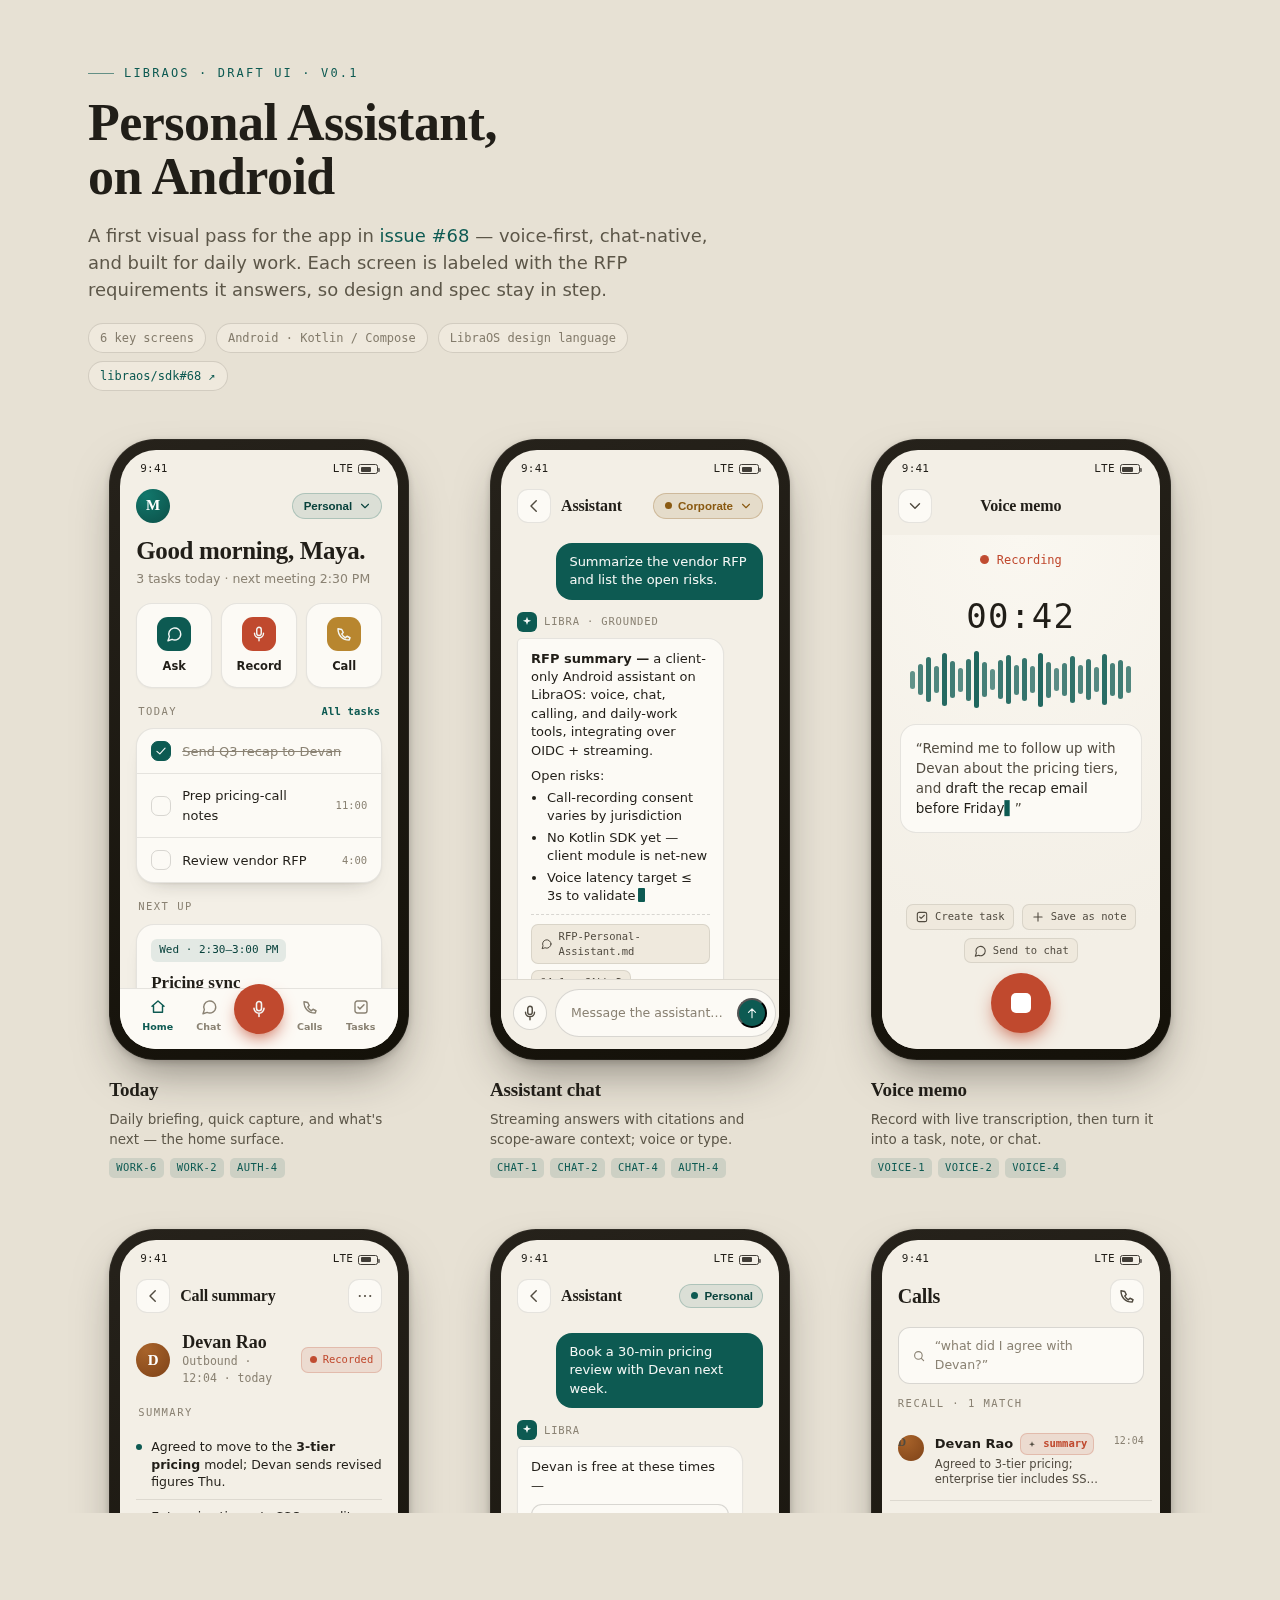
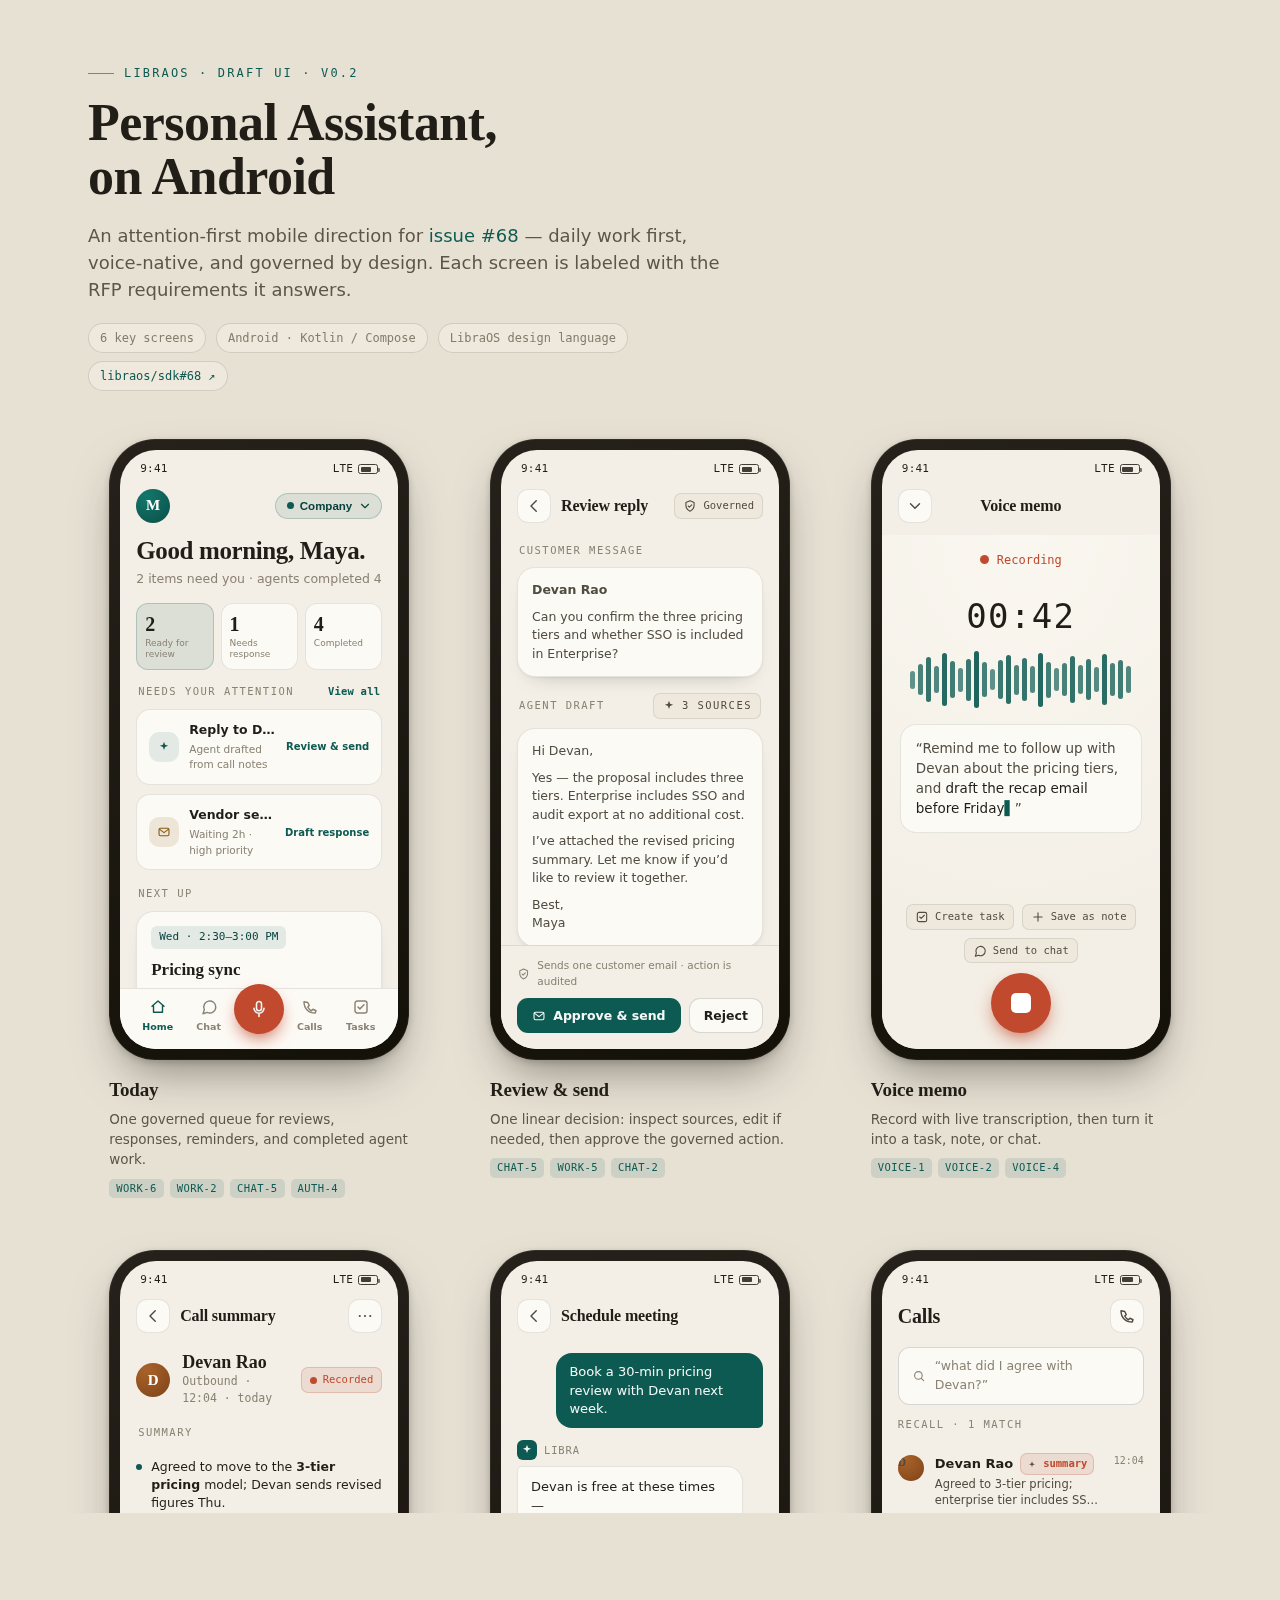
docs: refresh Android assistant UX mockup

diff --git a/docs/design/rfp-android/ui-draft.html b/docs/design/rfp-android/ui-draft.html
@@ -169,6 +169,23 @@
   .task-t{flex:1; font-size:13px}
   .task-t.done{color:var(--muted); text-decoration:line-through}
   .task-meta{font-family:var(--font-mono); font-size:10.5px; color:var(--muted)}
+  .attention{display:flex;flex-direction:column;gap:9px}
+  .attention .item{display:flex;align-items:center;gap:10px;padding:11px 12px;background:var(--surface);border:1px solid var(--line);border-radius:14px}
+  .attention .badge{width:30px;height:30px;border-radius:10px;display:grid;place-items:center;background:var(--accent-tint);color:var(--accent);flex:0 0 auto}
+  .attention .copy{min-width:0;flex:1}
+  .attention .copy b{display:block;font-size:12.5px;white-space:nowrap;overflow:hidden;text-overflow:ellipsis}
+  .attention .copy small{display:block;color:var(--muted);font-size:10.5px;margin-top:2px}
+  .next-action{font-size:10px;font-weight:700;color:var(--accent);white-space:nowrap}
+  .metrics{display:grid;grid-template-columns:repeat(3,1fr);gap:7px;margin-bottom:14px}
+  .metric{padding:10px 8px;border:1px solid var(--line);border-radius:12px;background:var(--surface)}
+  .metric.hot{background:var(--accent-tint);border-color:color-mix(in srgb,var(--accent) 22%,transparent)}
+  .metric b{display:block;font-family:var(--font-display);font-size:20px;line-height:1}
+  .metric small{display:block;font-size:9px;color:var(--muted);margin-top:4px;line-height:1.15}
+  .review-copy{padding:13px 14px;font-size:12.5px;line-height:1.48;color:var(--ink-soft)}
+  .review-copy p{margin:0 0 8px}
+  .review-copy p:last-child{margin-bottom:0}
+  .review-foot{margin-top:auto;padding:12px 16px 16px;border-top:1px solid var(--line);background:var(--paper)}
+  .review-note{display:flex;align-items:center;gap:7px;margin-bottom:9px;color:var(--muted);font-size:10.5px}
 
   /* meeting card */
   .meet{padding:14px}
@@ -306,9 +323,9 @@
 
 <div class="wrap">
   <header class="masthead">
-    <p class="eyebrow">LibraOS · Draft UI · v0.1</p>
+    <p class="eyebrow">LibraOS · Draft UI · v0.2</p>
     <h1 class="title">Personal Assistant, on Android</h1>
-    <p class="dek">A first visual pass for the app in <a class="under" style="color:var(--page-accent);text-decoration:none">issue&nbsp;#68</a> — voice-first, chat-native, and built for daily work. Each screen is labeled with the RFP requirements it answers, so design and spec stay in step.</p>
+    <p class="dek">An attention-first mobile direction for <a class="under" style="color:var(--page-accent);text-decoration:none">issue&nbsp;#68</a> — daily work first, voice-native, and governed by design. Each screen is labeled with the RFP requirements it answers.</p>
     <div class="meta">
       <span>6 key screens</span>
       <span>Android · Kotlin / Compose</span>
@@ -327,21 +344,20 @@
           <div class="appbar">
             <div class="avatar">M</div>
             <div class="grow"></div>
-            <button class="scope">Personal <svg class="i sm"><use href="#i-down"/></svg></button>
+            <button class="scope"><span class="dot"></span>Company <svg class="i sm"><use href="#i-down"/></svg></button>
           </div>
           <div class="pad" style="padding-top:0">
             <h2 class="hello">Good morning, Maya.</h2>
-            <p class="subline">3 tasks today · next meeting 2:30 PM</p>
-            <div class="quick">
-              <div class="qa"><span class="ic"><svg class="i"><use href="#i-msg"/></svg></span><span>Ask</span></div>
-              <div class="qa"><span class="ic live"><svg class="i"><use href="#i-mic"/></svg></span><span>Record</span></div>
-              <div class="qa"><span class="ic warm"><svg class="i"><use href="#i-phone"/></svg></span><span>Call</span></div>
+            <p class="subline">2 items need you · agents completed 4</p>
+            <div class="metrics">
+              <div class="metric hot"><b>2</b><small>Ready for review</small></div>
+              <div class="metric"><b>1</b><small>Needs response</small></div>
+              <div class="metric"><b>4</b><small>Completed</small></div>
             </div>
-            <div class="slabel">Today <a href="#">All tasks</a></div>
-            <div class="card">
-              <div class="row"><span class="check done"><svg class="i sm"><use href="#i-check"/></svg></span><span class="task-t done">Send Q3 recap to Devan</span></div>
-              <div class="row"><span class="check"></span><span class="task-t">Prep pricing-call notes</span><span class="task-meta">11:00</span></div>
-              <div class="row"><span class="check"></span><span class="task-t">Review vendor RFP</span><span class="task-meta">4:00</span></div>
+            <div class="slabel">Needs your attention <a href="#">View all</a></div>
+            <div class="attention">
+              <div class="item"><span class="badge"><svg class="i sm"><use href="#i-spark"/></svg></span><span class="copy"><b>Reply to Devan Rao</b><small>Agent drafted from call notes</small></span><span class="next-action">Review &amp; send</span></div>
+              <div class="item"><span class="badge" style="color:var(--amber);background:var(--amber-tint)"><svg class="i sm"><use href="#i-mail"/></svg></span><span class="copy"><b>Vendor security question</b><small>Waiting 2h · high priority</small></span><span class="next-action">Draft response</span></div>
             </div>
             <div class="slabel" style="margin-top:16px">Next up</div>
             <div class="card meet">
@@ -362,50 +378,43 @@
       </div></div>
       <figcaption>
         <p class="cap-name">Today</p>
-        <p class="cap-desc">Daily briefing, quick capture, and what's next — the home surface.</p>
-        <div class="ids"><b>WORK-6</b><b>WORK-2</b><b>AUTH-4</b></div>
+        <p class="cap-desc">One governed queue for reviews, responses, reminders, and completed agent work.</p>
+        <div class="ids"><b>WORK-6</b><b>WORK-2</b><b>CHAT-5</b><b>AUTH-4</b></div>
       </figcaption>
     </figure>
 
-    <!-- 2 · CHAT -->
+    <!-- 2 · REVIEW AND SEND -->
     <figure class="phone">
       <div class="device"><div class="screen">
         <div class="status"><span>9:41</span><span class="sig"><span style="font-family:var(--font-mono)">LTE</span><span class="batt"></span></span></div>
         <div class="appbar">
           <button class="iconbtn"><svg class="i"><use href="#i-back"/></svg></button>
-          <div class="grow"><div class="wordmark" style="font-size:16px">Assistant</div></div>
-          <button class="scope" style="color:var(--amber);background:var(--amber-tint);border-color:color-mix(in srgb,var(--amber) 26%,transparent)"><span class="dot" style="background:var(--amber)"></span>Corporate <svg class="i sm"><use href="#i-down"/></svg></button>
+          <div class="grow"><div class="wordmark" style="font-size:16px">Review reply</div></div>
+          <span class="chip"><svg class="i sm"><use href="#i-shield"/></svg>Governed</span>
         </div>
         <div class="body">
-          <div class="thread">
-            <div class="msg me">Summarize the vendor RFP and list the open risks.</div>
-            <div class="msg ai">
-              <div class="ai-head"><span class="spark"><svg class="i sm"><use href="#i-spark"/></svg></span>Libra · grounded</div>
-              <div class="bubble">
-                <p><b>RFP summary —</b> a client-only Android assistant on LibraOS: voice, chat, calling, and daily-work tools, integrating over OIDC + streaming.</p>
-                <p style="margin-bottom:3px">Open risks:</p>
-                <ul>
-                  <li>Call-recording consent varies by jurisdiction</li>
-                  <li>No Kotlin SDK yet — client module is net-new</li>
-                  <li>Voice latency target ≤ 3s to validate<span class="caret"></span></li>
-                </ul>
-                <div class="cites">
-                  <span class="chip"><svg class="i sm"><use href="#i-msg"/></svg>RFP-Personal-Assistant.md</span>
-                  <span class="chip">§4.1 · CALL-3</span>
-                </div>
-              </div>
+          <div class="pad" style="padding-top:4px">
+            <div class="slabel">Customer message</div>
+            <div class="card review-copy"><p><b>Devan Rao</b></p><p>Can you confirm the three pricing tiers and whether SSO is included in Enterprise?</p></div>
+            <div class="slabel" style="margin-top:16px">Agent draft <span class="chip"><svg class="i sm"><use href="#i-spark"/></svg>3 sources</span></div>
+            <div class="card review-copy">
+              <p>Hi Devan,</p>
+              <p>Yes — the proposal includes three tiers. Enterprise includes SSO and audit export at no additional cost.</p>
+              <p>I’ve attached the revised pricing summary. Let me know if you’d like to review it together.</p>
+              <p>Best,<br>Maya</p>
             </div>
+            <div style="display:flex;gap:7px;margin-top:11px"><span class="chip">Pricing v3</span><span class="chip">Call summary</span><button class="btn ghost sm" style="margin-left:auto">Edit</button></div>
           </div>
         </div>
-        <div class="composer">
-          <button class="round mic"><svg class="i"><use href="#i-mic"/></svg></button>
-          <div class="field"><input placeholder="Message the assistant…" aria-label="Message"><button class="round accent" style="width:30px;height:30px"><svg class="i sm"><use href="#i-up"/></svg></button></div>
+        <div class="review-foot">
+          <div class="review-note"><svg class="i sm"><use href="#i-shield"/></svg>Sends one customer email · action is audited</div>
+          <div style="display:flex;gap:8px"><button class="btn primary" style="flex:1"><svg class="i sm"><use href="#i-mail"/></svg>Approve &amp; send</button><button class="btn ghost">Reject</button></div>
         </div>
       </div></div>
       <figcaption>
-        <p class="cap-name">Assistant chat</p>
-        <p class="cap-desc">Streaming answers with citations and scope-aware context; voice or type.</p>
-        <div class="ids"><b>CHAT-1</b><b>CHAT-2</b><b>CHAT-4</b><b>AUTH-4</b></div>
+        <p class="cap-name">Review &amp; send</p>
+        <p class="cap-desc">One linear decision: inspect sources, edit if needed, then approve the governed action.</p>
+        <div class="ids"><b>CHAT-5</b><b>WORK-5</b><b>CHAT-2</b></div>
       </figcaption>
     </figure>
 
@@ -491,8 +500,8 @@
         <div class="status"><span>9:41</span><span class="sig"><span style="font-family:var(--font-mono)">LTE</span><span class="batt"></span></span></div>
         <div class="appbar">
           <button class="iconbtn"><svg class="i"><use href="#i-back"/></svg></button>
-          <div class="grow"><div class="wordmark" style="font-size:16px">Assistant</div></div>
-          <button class="scope"><span class="dot"></span>Personal</button>
+          <div class="grow"><div class="wordmark" style="font-size:16px">Schedule meeting</div></div>
+          <span style="width:34px"></span>
         </div>
         <div class="body">
           <div class="thread">
@@ -583,7 +592,7 @@
   </main>
 
   <footer>
-    <p><b>Draft, not final.</b> Screens are a directional pass in the LibraOS visual language (production uses the <b>Fraunces</b> display face + <b>IBM&nbsp;Plex&nbsp;Mono</b>, approximated here with system fonts since embedded webfonts are blocked). Requirement IDs map back to the RFP in <b>libraos/sdk#68</b>. Call transport (VoIP/telephony) is the app layer; LibraOS supplies transcription, summary, recall, and meeting-booking through its agents, knowledge, and connectors.</p>
+    <p><b>Draft v0.2, not final.</b> The mobile experience starts with human attention, keeps AI output inside the relevant work item, and makes governed actions explicit. Production uses the <b>Fraunces</b> display face + <b>IBM&nbsp;Plex&nbsp;Mono</b>, approximated here with system fonts since embedded webfonts are blocked. Requirement IDs map back to the RFP in <b>libraos/sdk#68</b>. Call transport (VoIP/telephony) is the app layer; LibraOS supplies transcription, summary, recall, and meeting-booking through its agents, knowledge, and connectors.</p>
   </footer>
 </div>
 
